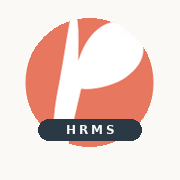
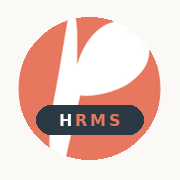
updating company branding on the login page

diff --git a/src/styles/app.css b/src/styles/app.css
@@ -218,17 +218,20 @@ select.input { appearance: none; -webkit-appearance: none; padding-right: 32px;
 /* ── Login ──────────────────────────────────────────────────── */
 .login-page { position: relative; min-height: 100vh; display: flex; align-items: center;
   justify-content: center; padding: 20px; overflow: hidden;
-  background: linear-gradient(160deg, #2B3944 0%, #243039 55%, #1E282F 100%); }
+  background: #10141D; }
 /* faint warm wash picks up the brand hue without reading as a gradient effect */
 .login-page::before { content: ''; position: absolute; inset: 0; pointer-events: none;
-  background: radial-gradient(ellipse at 30% 20%, rgba(155,104,109,.14), transparent 60%); }
-.login-card { position: relative; background: var(--surface); border: 1px solid rgba(255,255,255,.08);
-  border-radius: 14px; box-shadow: var(--shadow-lg);
-  padding: 34px 28px; width: 100%; max-width: 380px; }
-.login-logo { display: block; width: 68px; height: 68px; border-radius: 50%;
-  object-fit: cover; margin: 0 auto 16px; }
-.login-title { text-align: center; font-size: 20px; font-weight: 700; color: var(--ink); letter-spacing: .3px; }
-.login-sub { text-align: center; font-size: 12.5px; color: var(--muted); margin-bottom: 22px; }
+  background: radial-gradient(ellipse at 50% 8%, rgba(255,255,255,.035), transparent 62%); }
+.login-card { position: relative; background: var(--surface); border: none;
+  border-radius: 16px; box-shadow: 0 18px 48px rgba(0,0,0,.45);
+  padding: 36px 32px; width: 100%; max-width: 400px; }
+.login-logo { display: block; width: 78px; height: 78px; border-radius: 50%;
+  object-fit: cover; margin: 0 auto 14px; }
+.login-company { text-align: center; font-size: 12.5px; font-weight: 700;
+  color: #C9640A; letter-spacing: .9px; text-transform: uppercase; margin-bottom: 8px; }
+.login-title { text-align: center; font-size: 26px; font-weight: 700; color: var(--ink);
+  letter-spacing: 1.5px; }
+.login-sub { text-align: center; font-size: 12.5px; color: var(--muted); margin: 4px 0 22px; }
 .login-error { background: var(--danger-bg); color: var(--danger); padding: 9px 12px;
   border-radius: 8px; font-size: 13px; margin-bottom: 14px; }
 .login-foot { text-align: center; font-size: 11px; color: var(--muted); margin-top: 18px; }

diff --git a/src/features/LoginPage.tsx b/src/features/LoginPage.tsx
@@ -37,8 +37,9 @@ export function LoginPage() {
     <div className="login-page">
       <form className="login-card" onSubmit={(e) => void onSubmit(e)}>
         <img src={logo} alt="" className="login-logo" />
-        <h1 className="login-title">PMPL HRMS</h1>
-        <p className="login-sub">Employee Management &amp; Payroll</p>
+        <p className="login-company">Polyfill Microns Pvt. Ltd.</p>
+        <h1 className="login-title">HRMS</h1>
+        <p className="login-sub">Employee Management &amp; Payroll · sign in to continue</p>
 
         <div className="field">
           <label className="field-label" htmlFor="login-email">Email address</label>

diff --git a/vite.config.ts b/vite.config.ts
@@ -32,6 +32,12 @@ export default defineConfig({
       },
       workbox: {
         globPatterns: ['**/*.{js,css,html,png,jpg,svg,woff2}'],
+        // Take over immediately on a new deploy instead of waiting for every
+        // tab to close, and drop stale precached bundles. Without this a
+        // returning user can keep seeing the previous build.
+        clientsClaim: true,
+        skipWaiting: true,
+        cleanupOutdatedCaches: true,
         // Never cache Supabase auth/REST traffic — the SW must not be able to
         // serve a stale session or stale business data.
         navigateFallbackDenylist: [/^\/api/],
